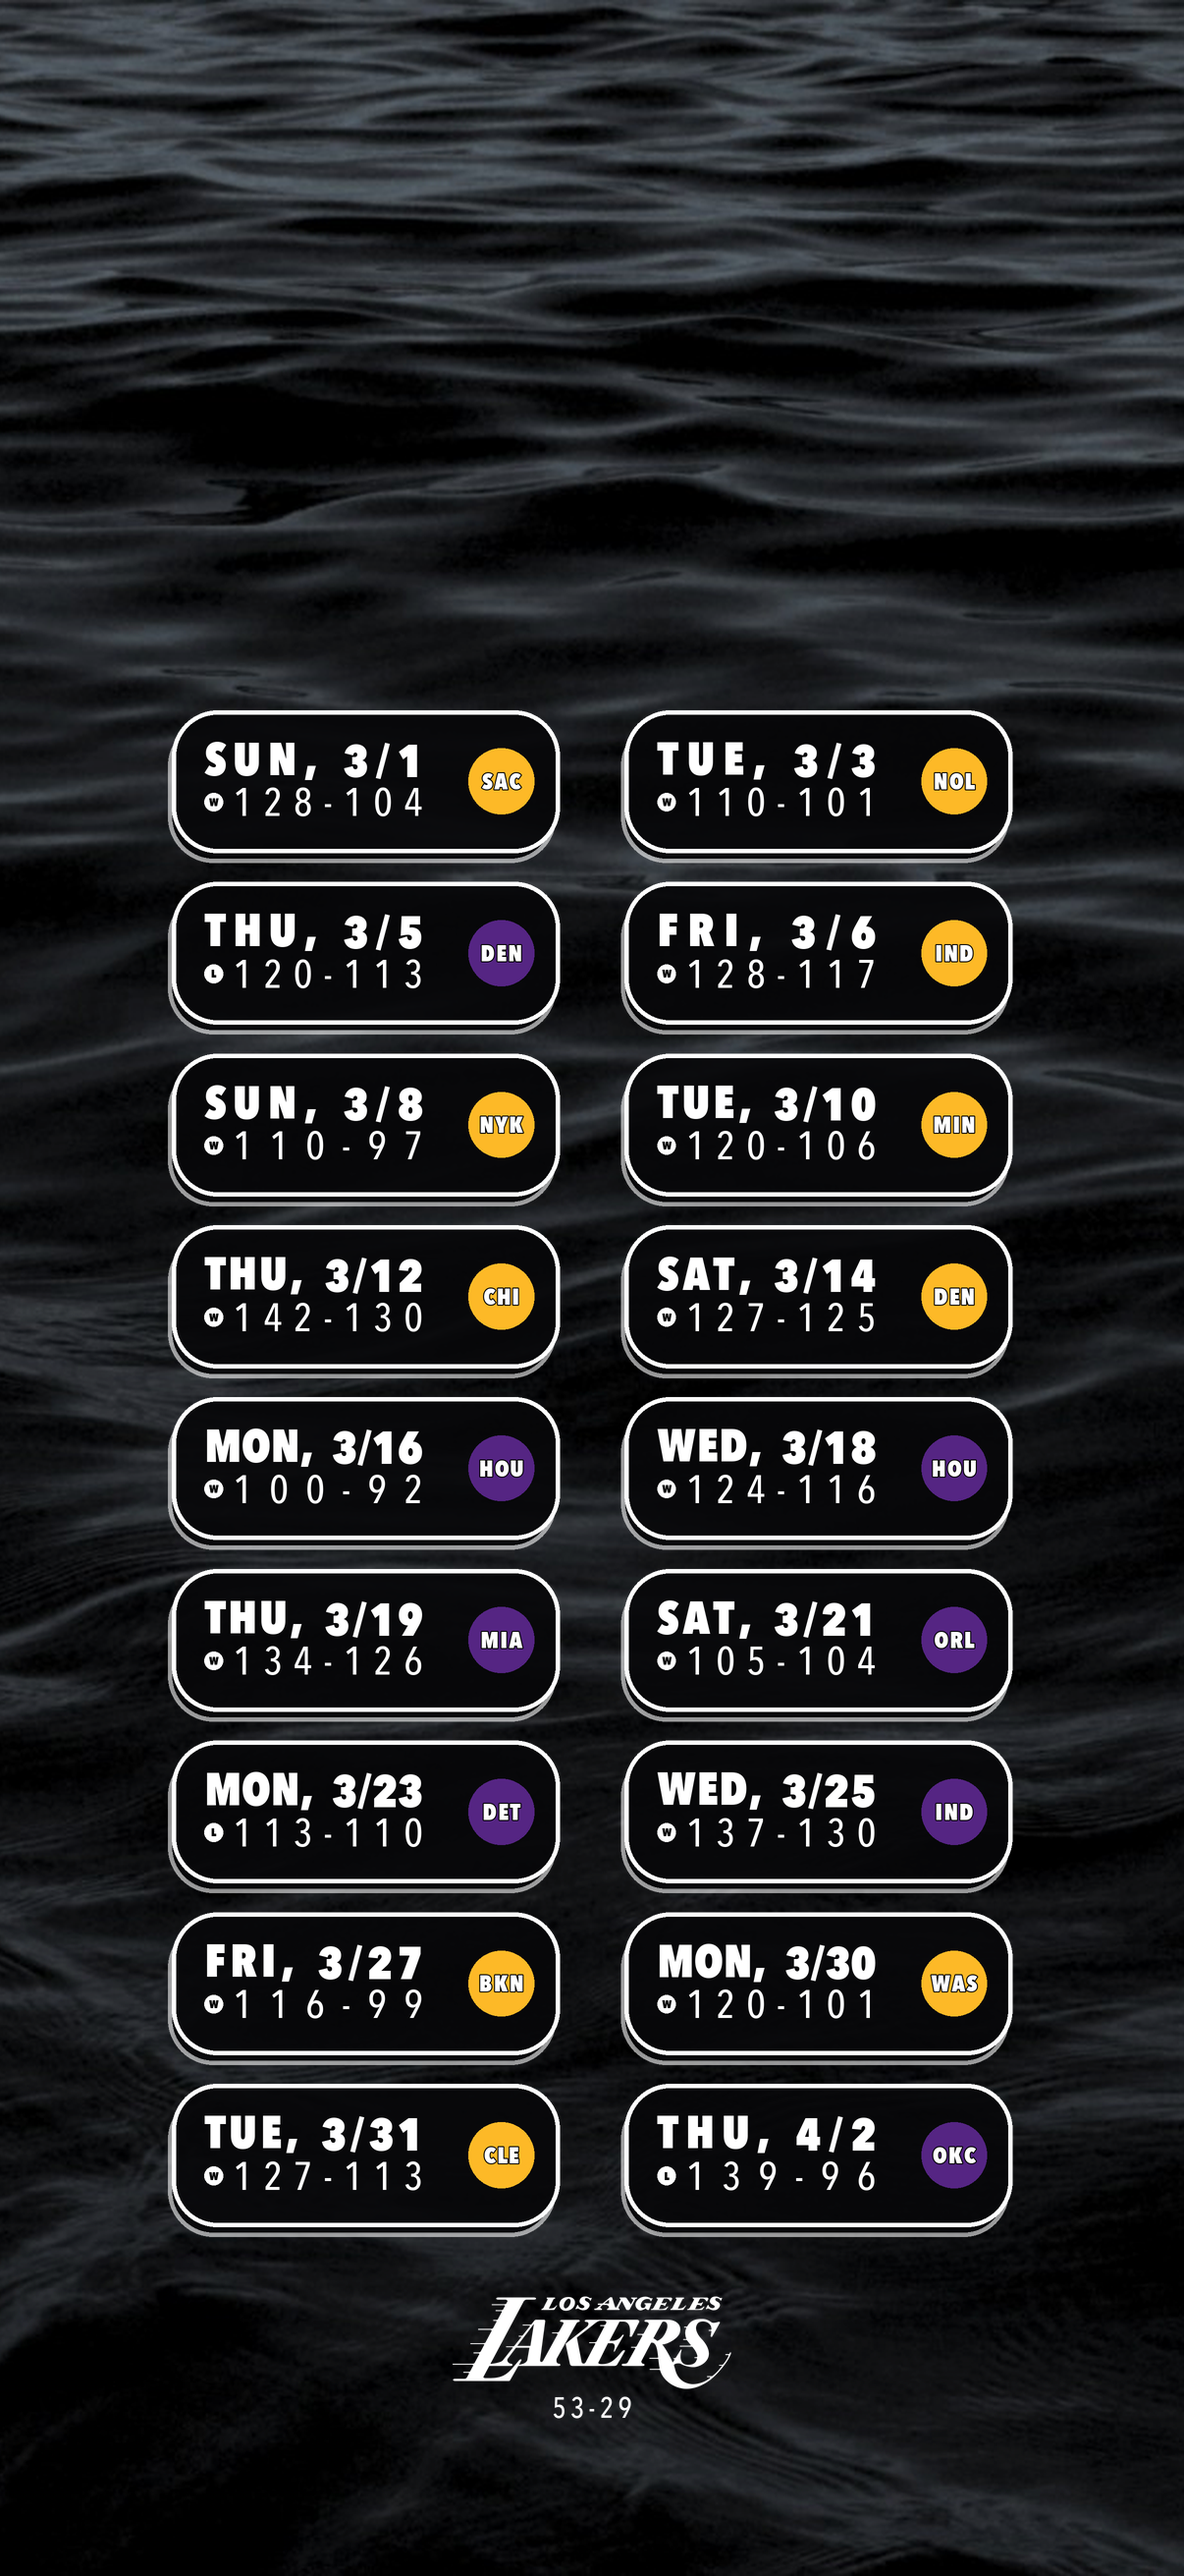
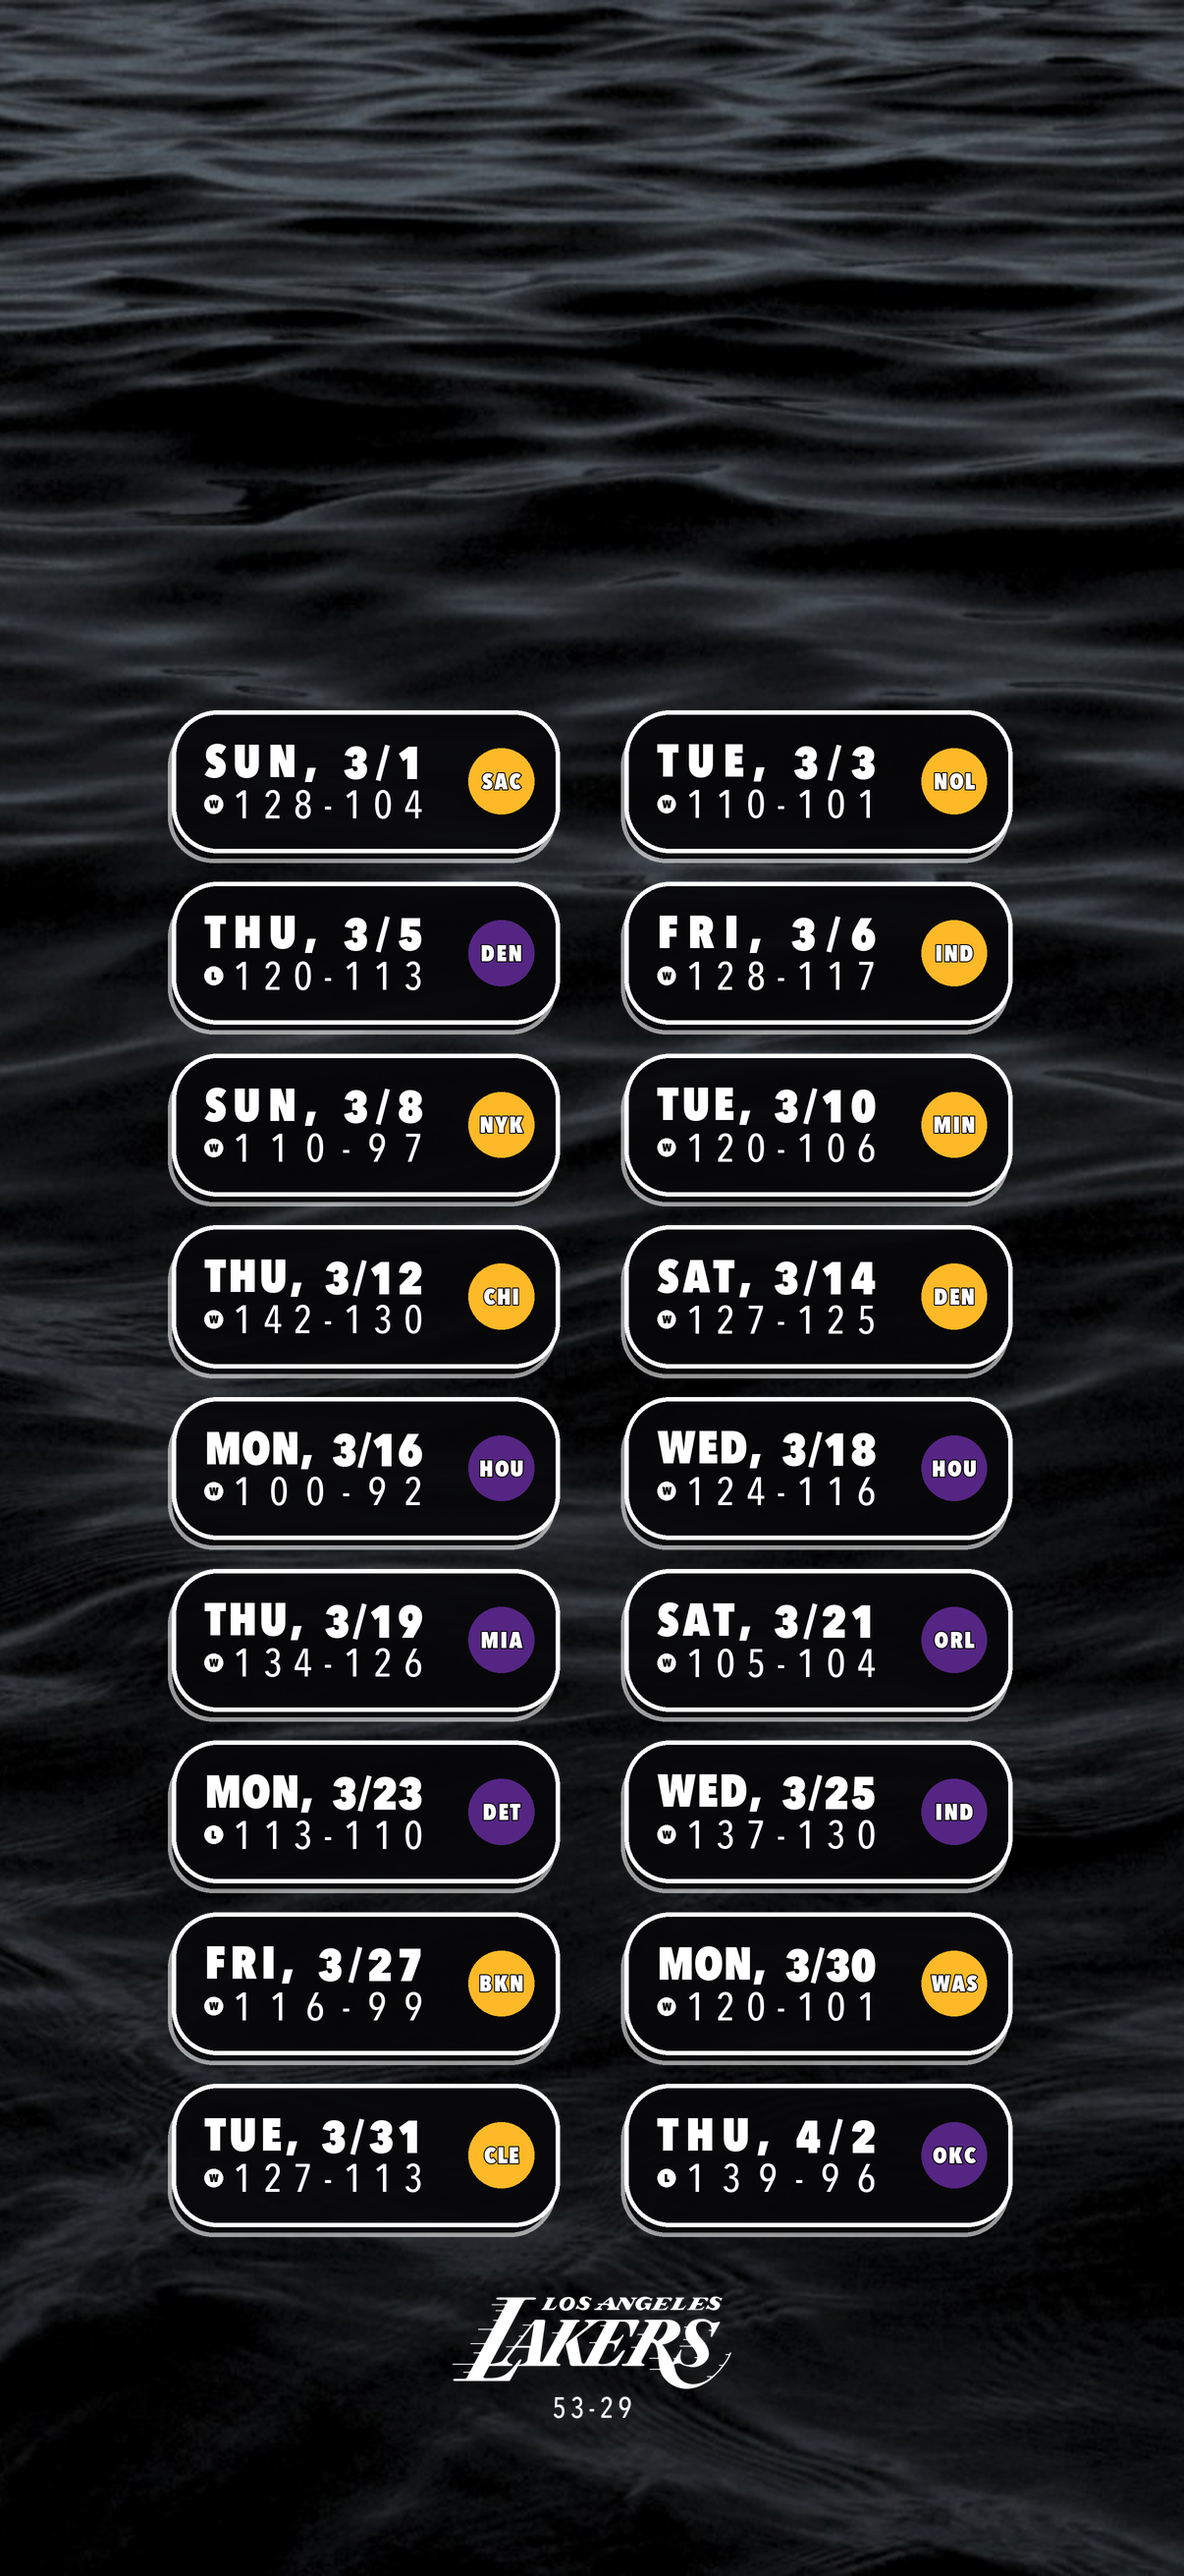
Centre chip text on its drawn ink
The two lines have different cap heights, so symmetric line positions left
the block 2.3px high. Centring on measured ink instead holds it centred
whatever the sizes are: 33.2/37.9 above and below becomes 35.2/35.9.

diff --git a/lakerscreen/render.py b/lakerscreen/render.py
@@ -355,6 +355,22 @@ def _type_scale(c: _Canvas, cfg: Config, w: float, h: float, games: Sequence[Gam
     return scale
 
 
+def _ink_height(c: _Canvas, runs: Sequence[Run]) -> float:
+    """Tallest drawn ink in a line, in final pixels."""
+    top = bot = 0.0
+    for r in runs:
+        if r["kind"] == "text":
+            bb = r["font"].getbbox(str(r["text"]))
+            h = (bb[3] - bb[1]) / float(c.ss)
+        elif r["kind"] == "badge":
+            h = float(r["size"])
+        else:
+            h = float(r["h"])
+        top = min(top, -h / 2.0)
+        bot = max(bot, h / 2.0)
+    return bot - top
+
+
 def _draw_chip(c: _Canvas, box, g: Game, cfg: Config, scale: float = 1.0,
                tag_w: float = 0.0, line_target: float = 0.0,
                tag_h: float = 0.0, tag_letter: float = 0.0) -> None:
@@ -379,6 +395,15 @@ def _draw_chip(c: _Canvas, box, g: Game, cfg: Config, scale: float = 1.0,
     ya, yb = y0 + h * lay.line1_y, y0 + h * lay.line2_y
 
     tl, bl, tr, br = _chip_lines(c, g, cfg, w, h, scale)
+
+    # Centre on the drawn ink, not on the nominal line positions. The two lines
+    # have different cap heights, so symmetric line centres leave the block
+    # sitting slightly high.
+    _ha, _hb = _ink_height(c, tl), _ink_height(c, bl)
+    _mid = ((ya - _ha / 2.0) + (yb + _hb / 2.0)) / 2.0
+    _shift = (y0 + h / 2.0) - _mid
+    ya += _shift
+    yb += _shift
     _tag_x1 = x1 - w * lay.tag_right_pad if cfg.marker == "tag" else None
 
     if cfg.marker == "tag":
